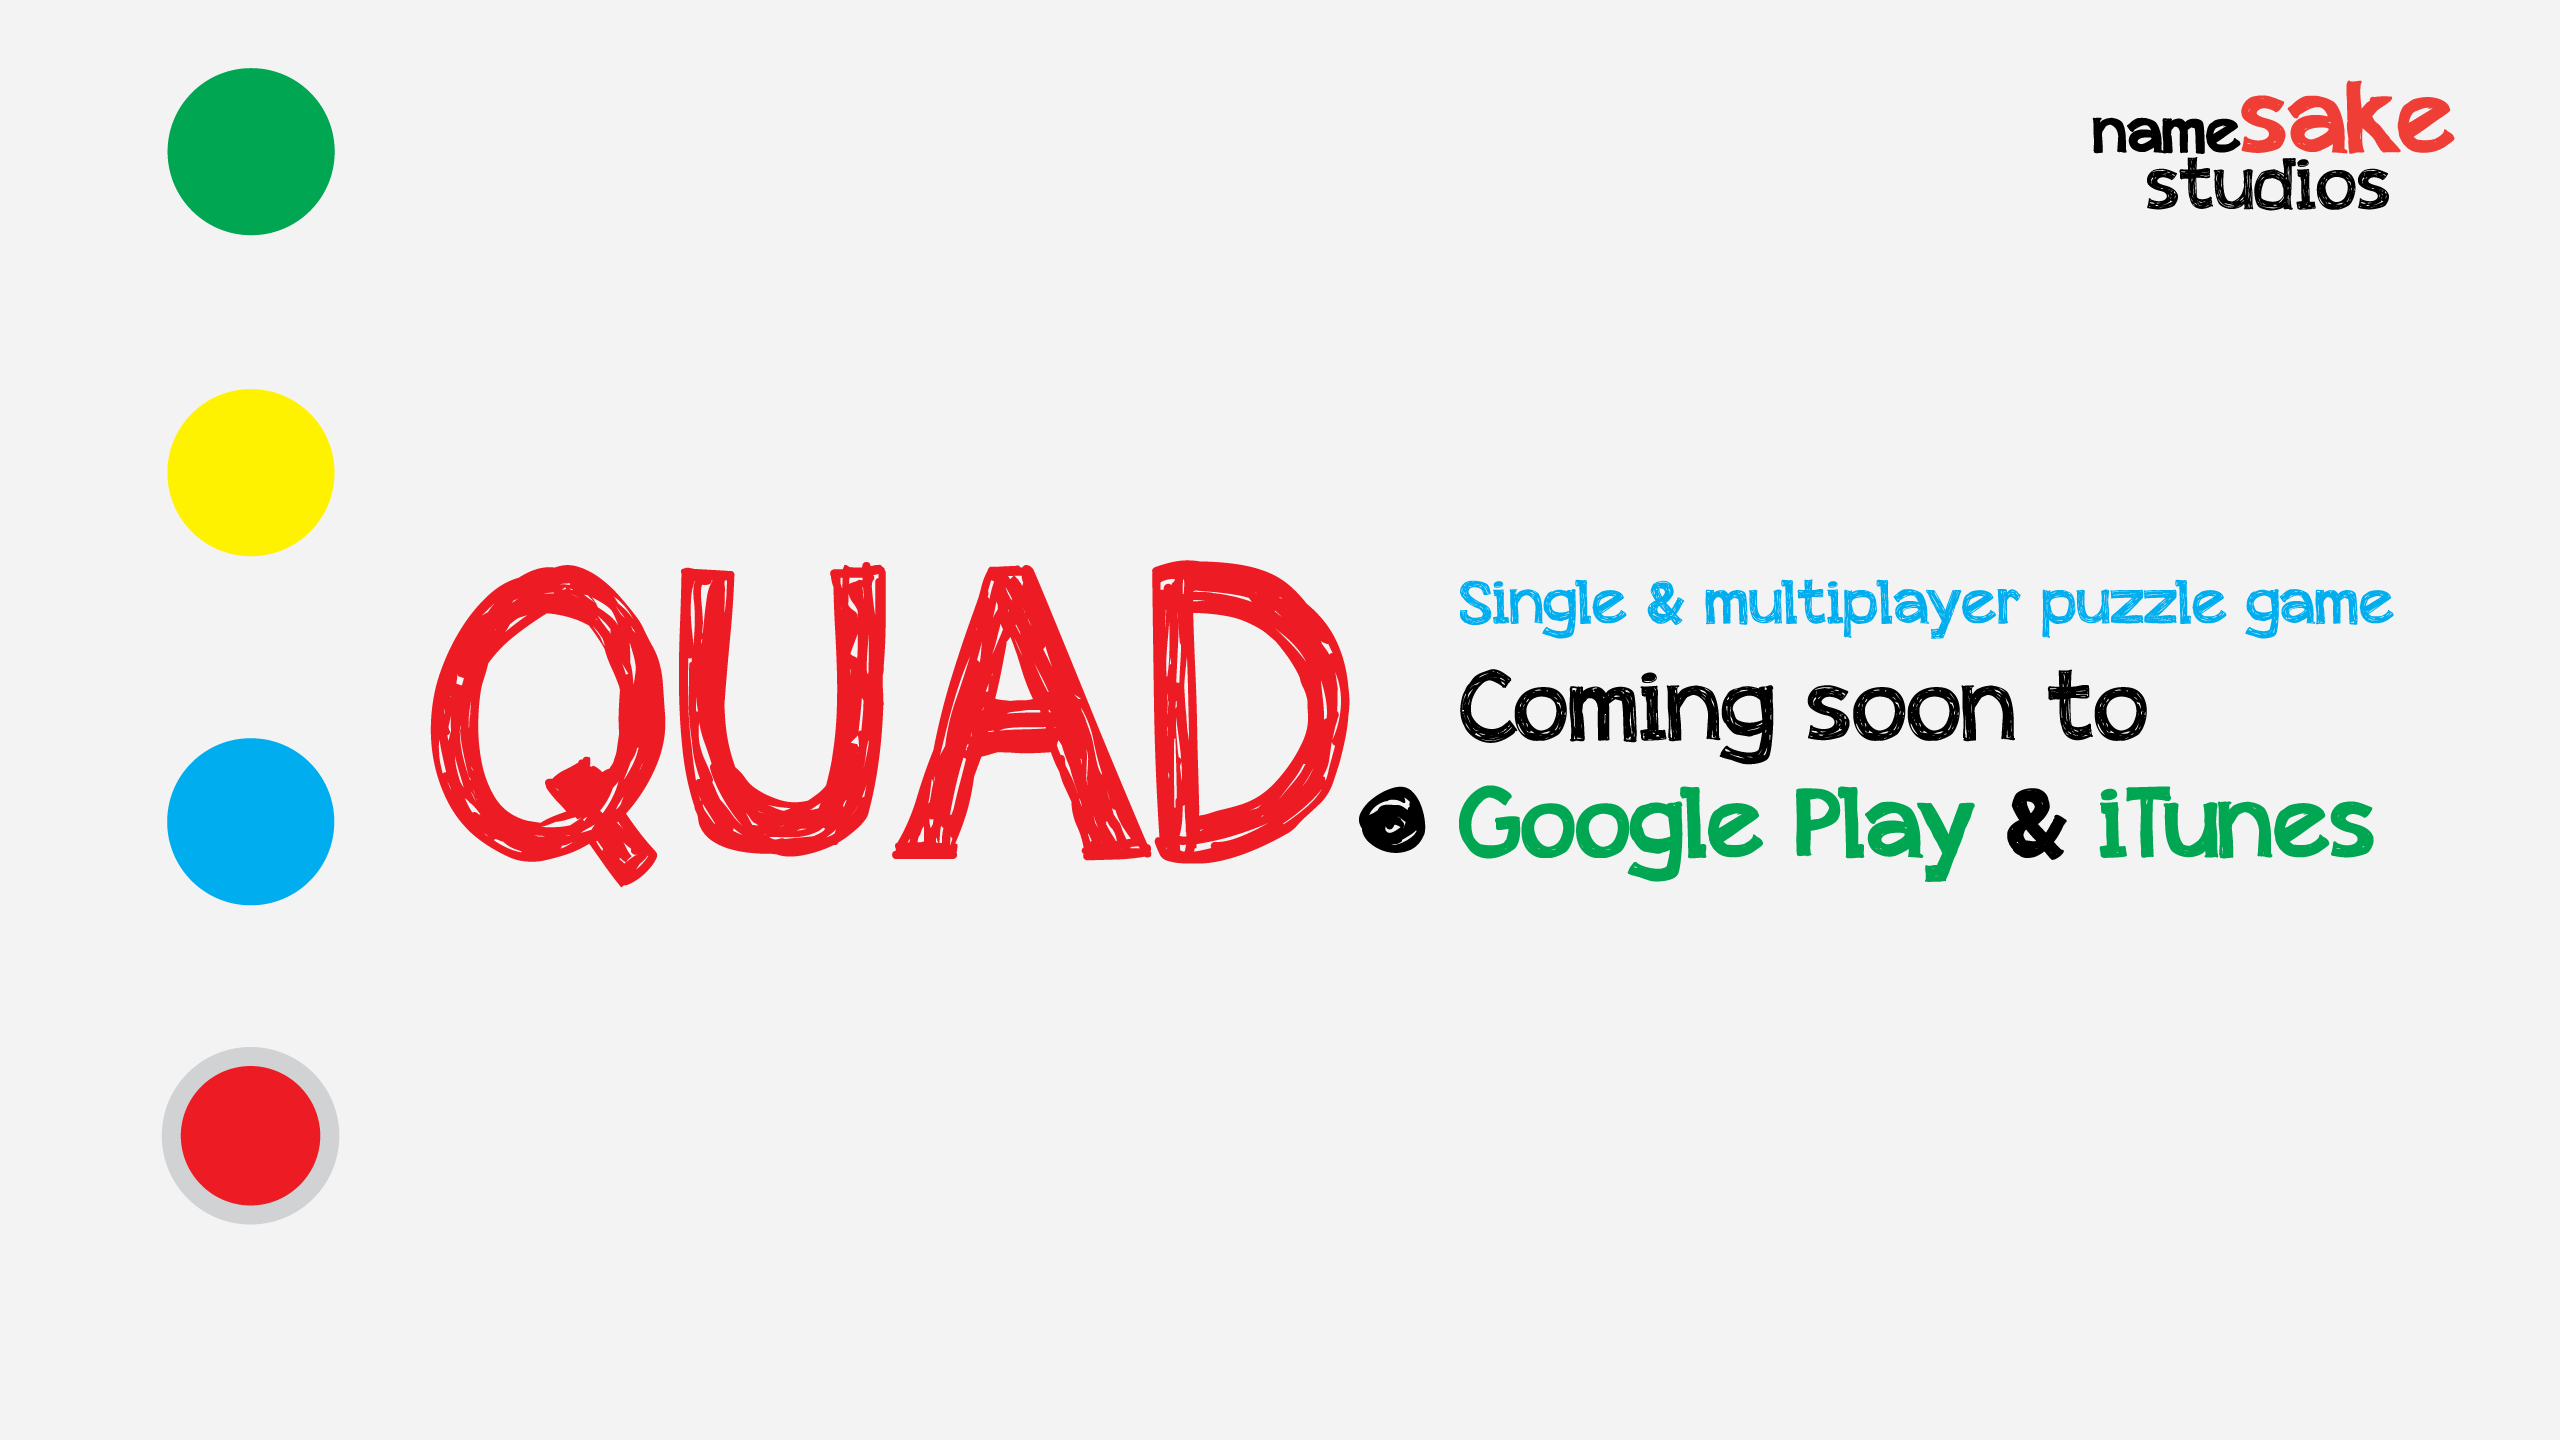
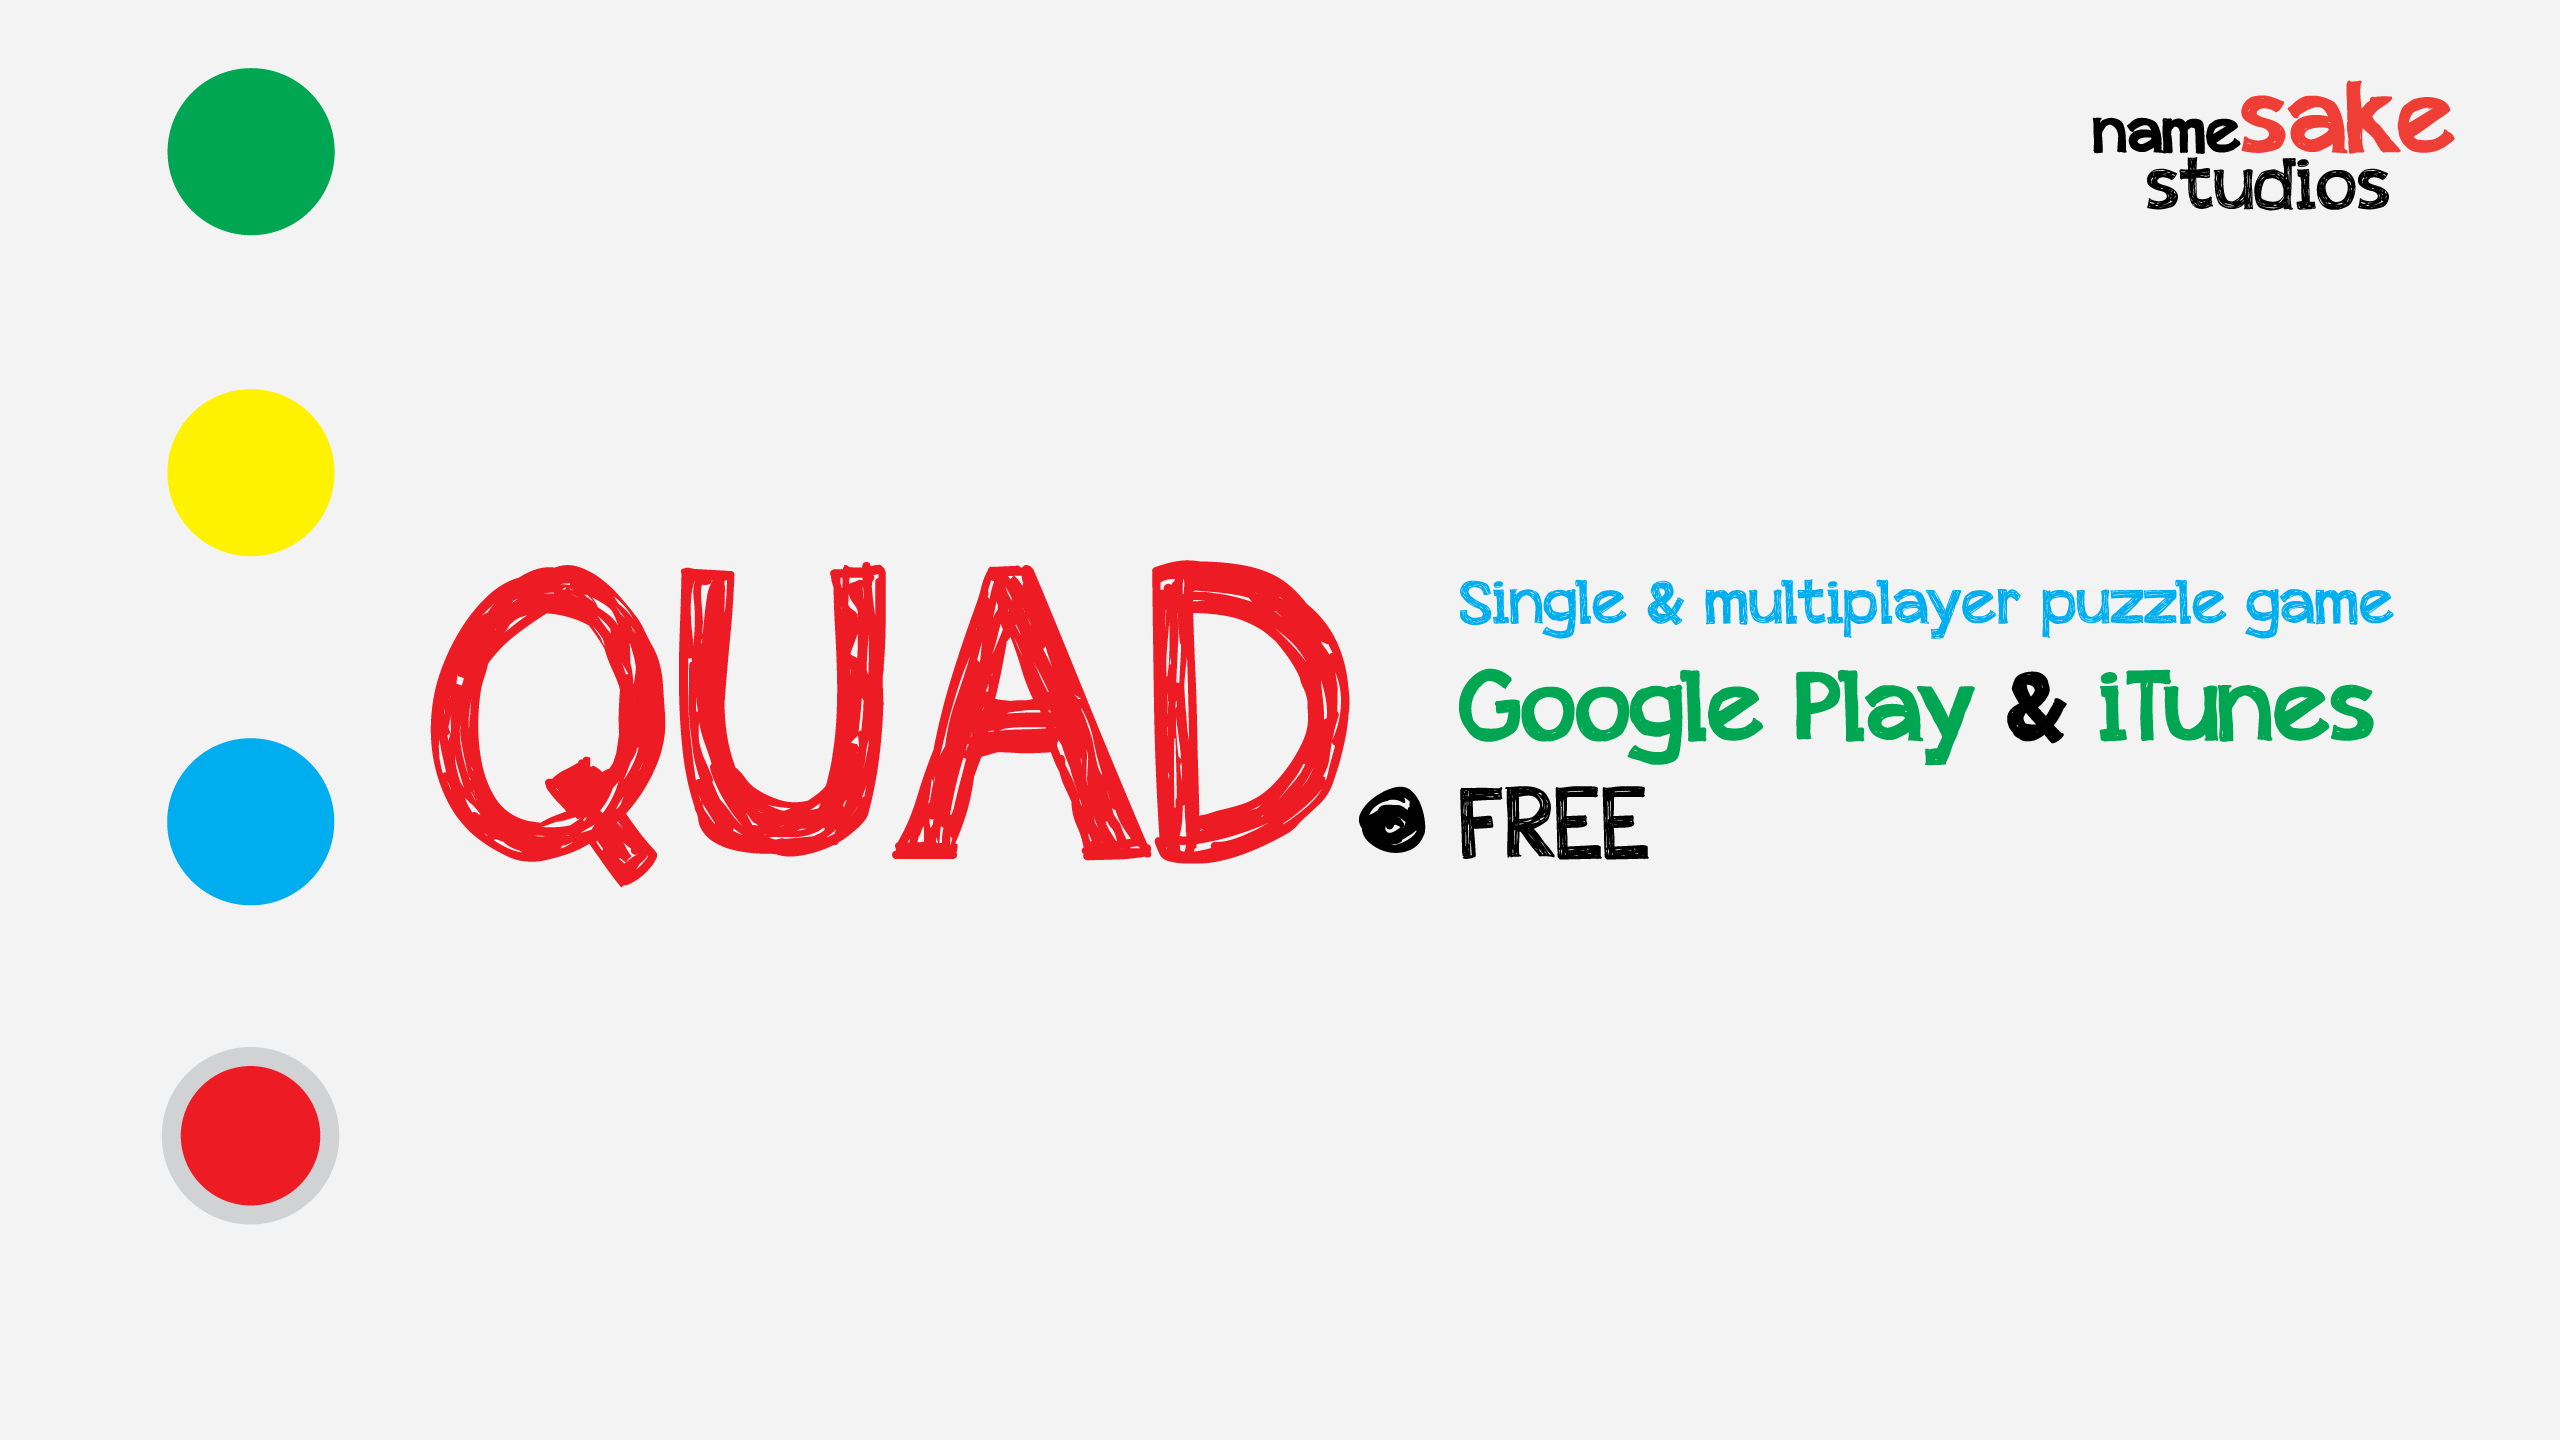
content update

Changed region(s): [[0.5625, 0.4688, 0.9375, 0.625]]

diff --git a/index.html b/index.html
@@ -38,7 +38,7 @@
       <div class="row about">
         <div class="medium-6 large-8 columns">
           <h4>About</h4>
-          <p>I am an independent game developer and artist residing in Fairfax County, VA outside of Washington, D.C. My first game, QUAD, will be available FOR FREE via Google Play and iTunes soon! Please check it out and stay in touch!</p>
+          <p>I am an independent game developer and artist residing in Fairfax County, VA outside of Washington, D.C. My first game, QUAD, is available FOR FREE via <a href="http://bit.ly/1GCmfOx">Google Play</a> and <a href="http://apple.co/1EIAqF2">iTunes</a>! Please check it out and stay in touch!</p>
         </div>
         <div class="medium-6 large-4 columns">
           <img src="img/profile.png">
